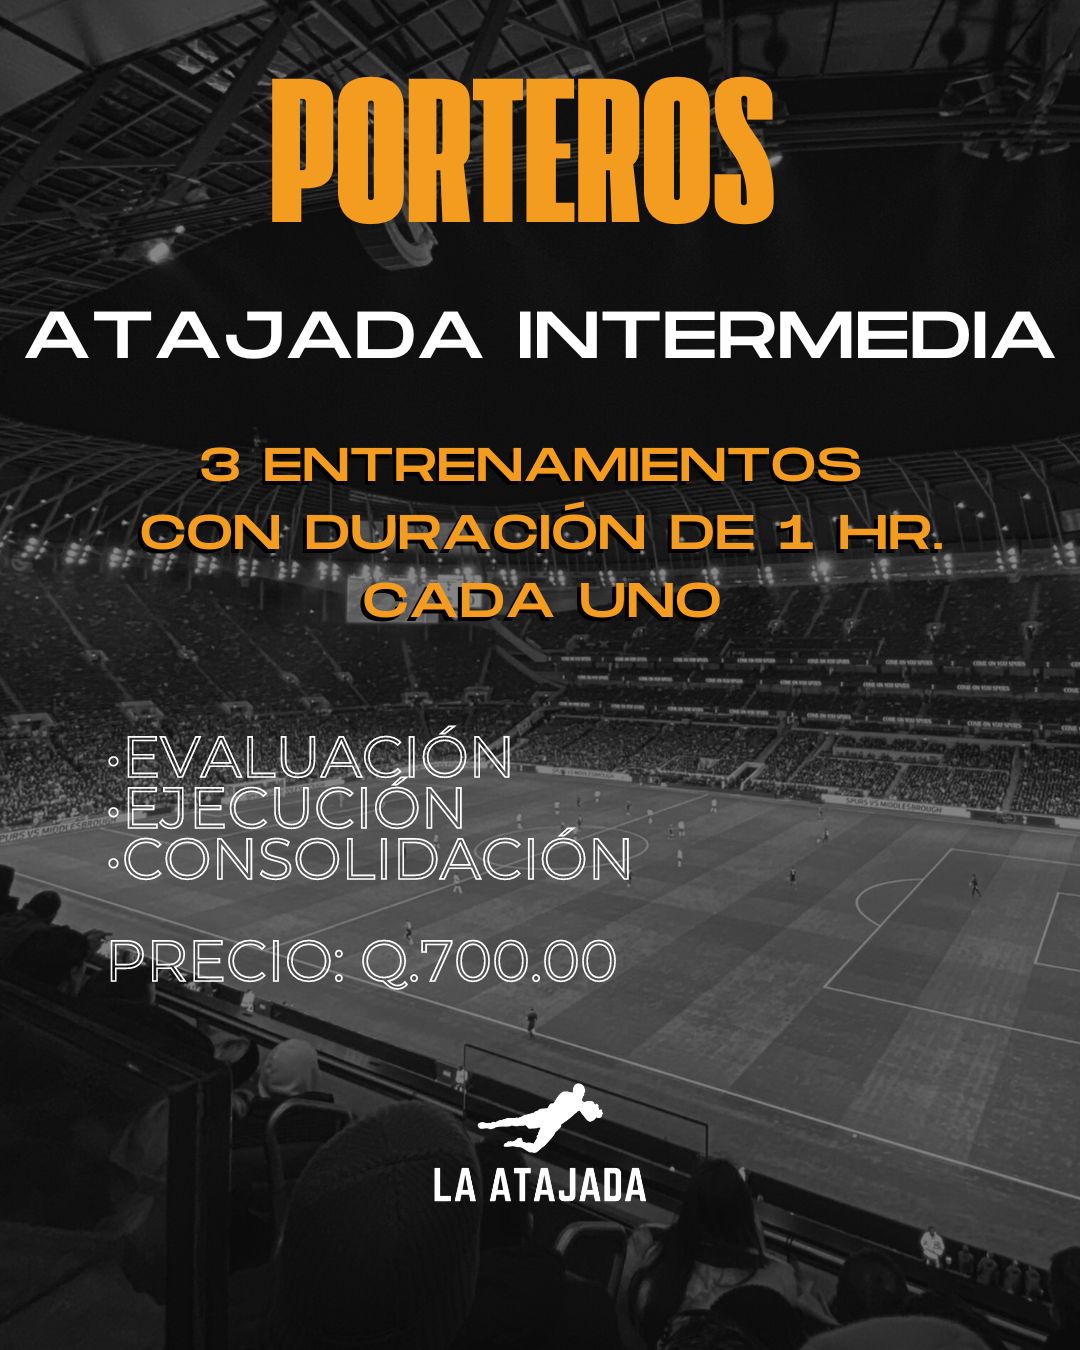
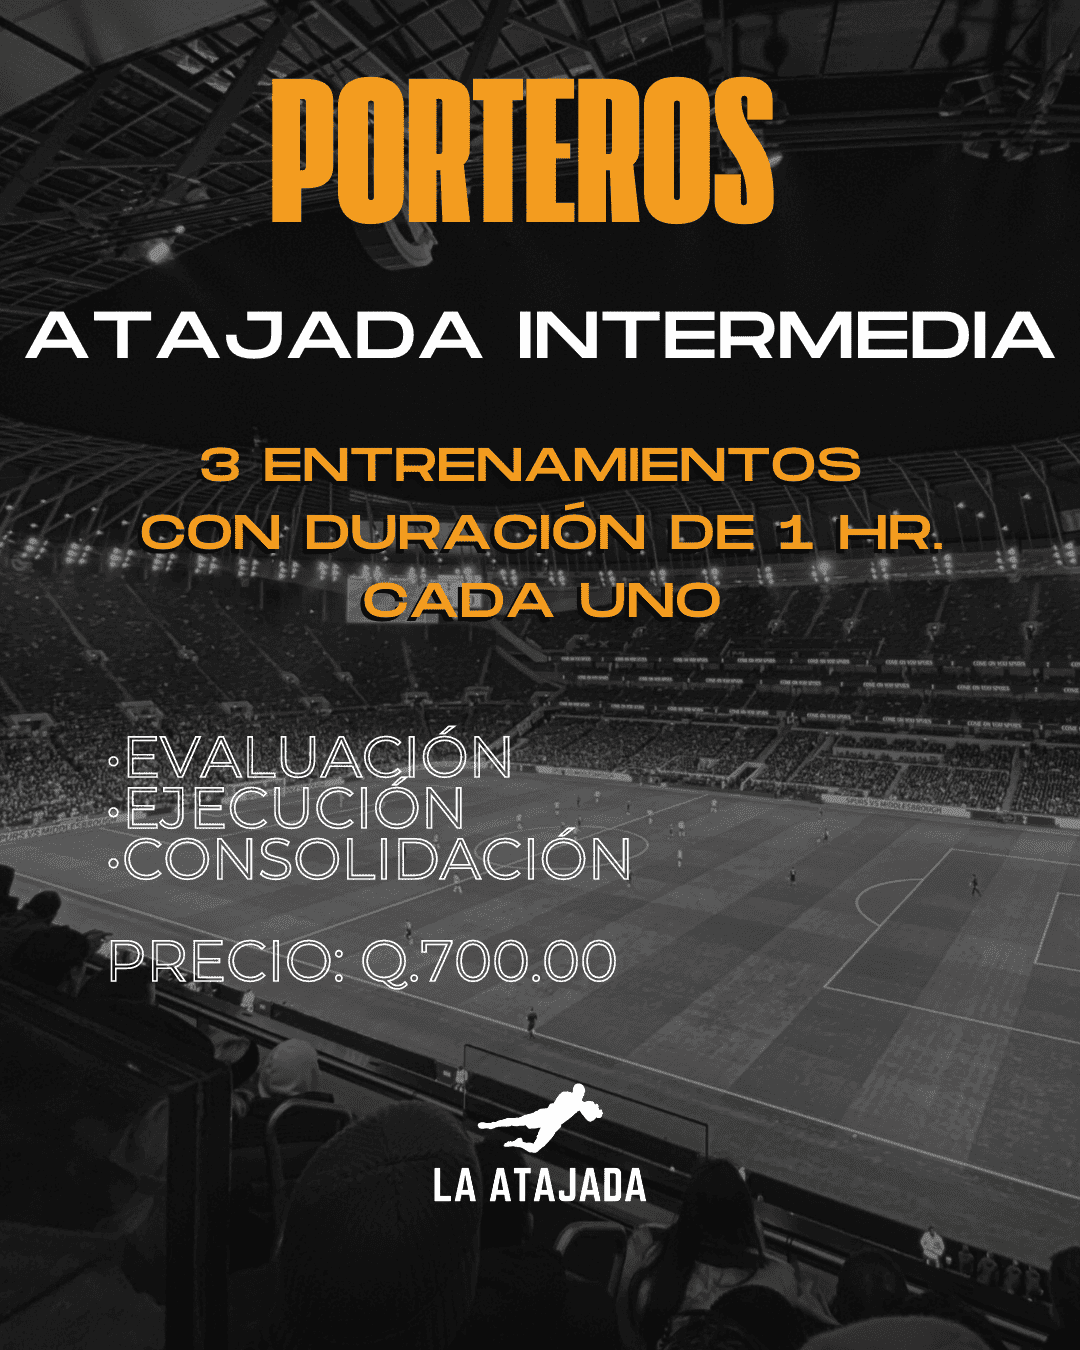
reduccion tamaño img

diff --git a/index.html b/index.html
@@ -131,18 +131,6 @@
 
           </section>
         
-        <!-- Servicios -->
-        
-            
-            <!-- Agrega más servicios según sea necesario 
-        </section>
-        <section id="testimonials">
-            <h2>Lo que Dicen Nuestros Clientes</h2>
-            <blockquote>
-                <p>"El entrenamiento con La ATAJADA ha mejorado significativamente mi rendimiento en el campo. ¡Altamente recomendado!"</p>
-                <footer>- Academia SoloGoles</footer>
-            </blockquote>
-             Agrega más testimonios según sea necesario -->
         </section>
         <section id="cta">
             <h2>¿Interesado en Nuestros Servicios?</h2>
